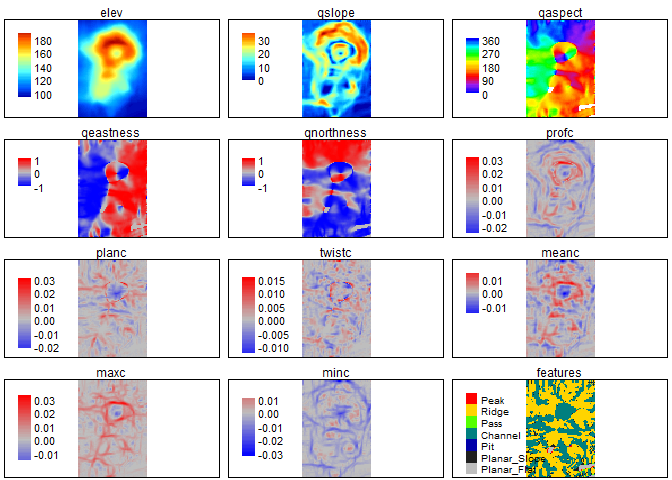
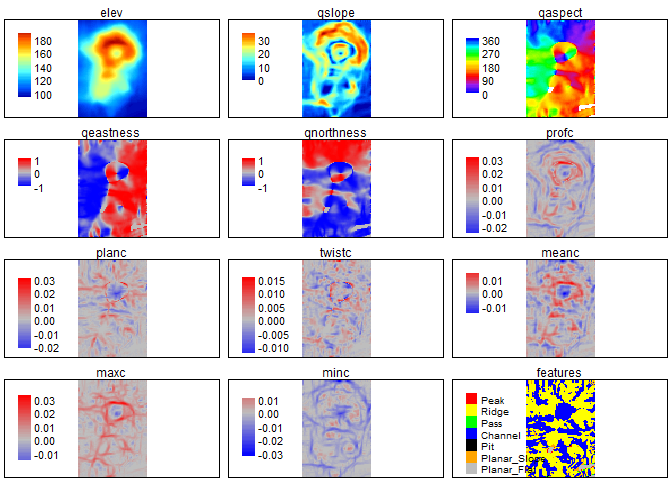
ReadMe fig fix - length of palette for features didn't match number of features

Changed region(s): [[0.7812, 0.7812, 0.9062, 1.0], [0.6875, 0.8438, 0.7188, 0.9688]]

diff --git a/README.md b/README.md
@@ -1,7 +1,7 @@
 README
 ================
 Alexander Ilich
-June 07, 2022
+June 09, 2022
 
 # MultiscaleDTM
 
